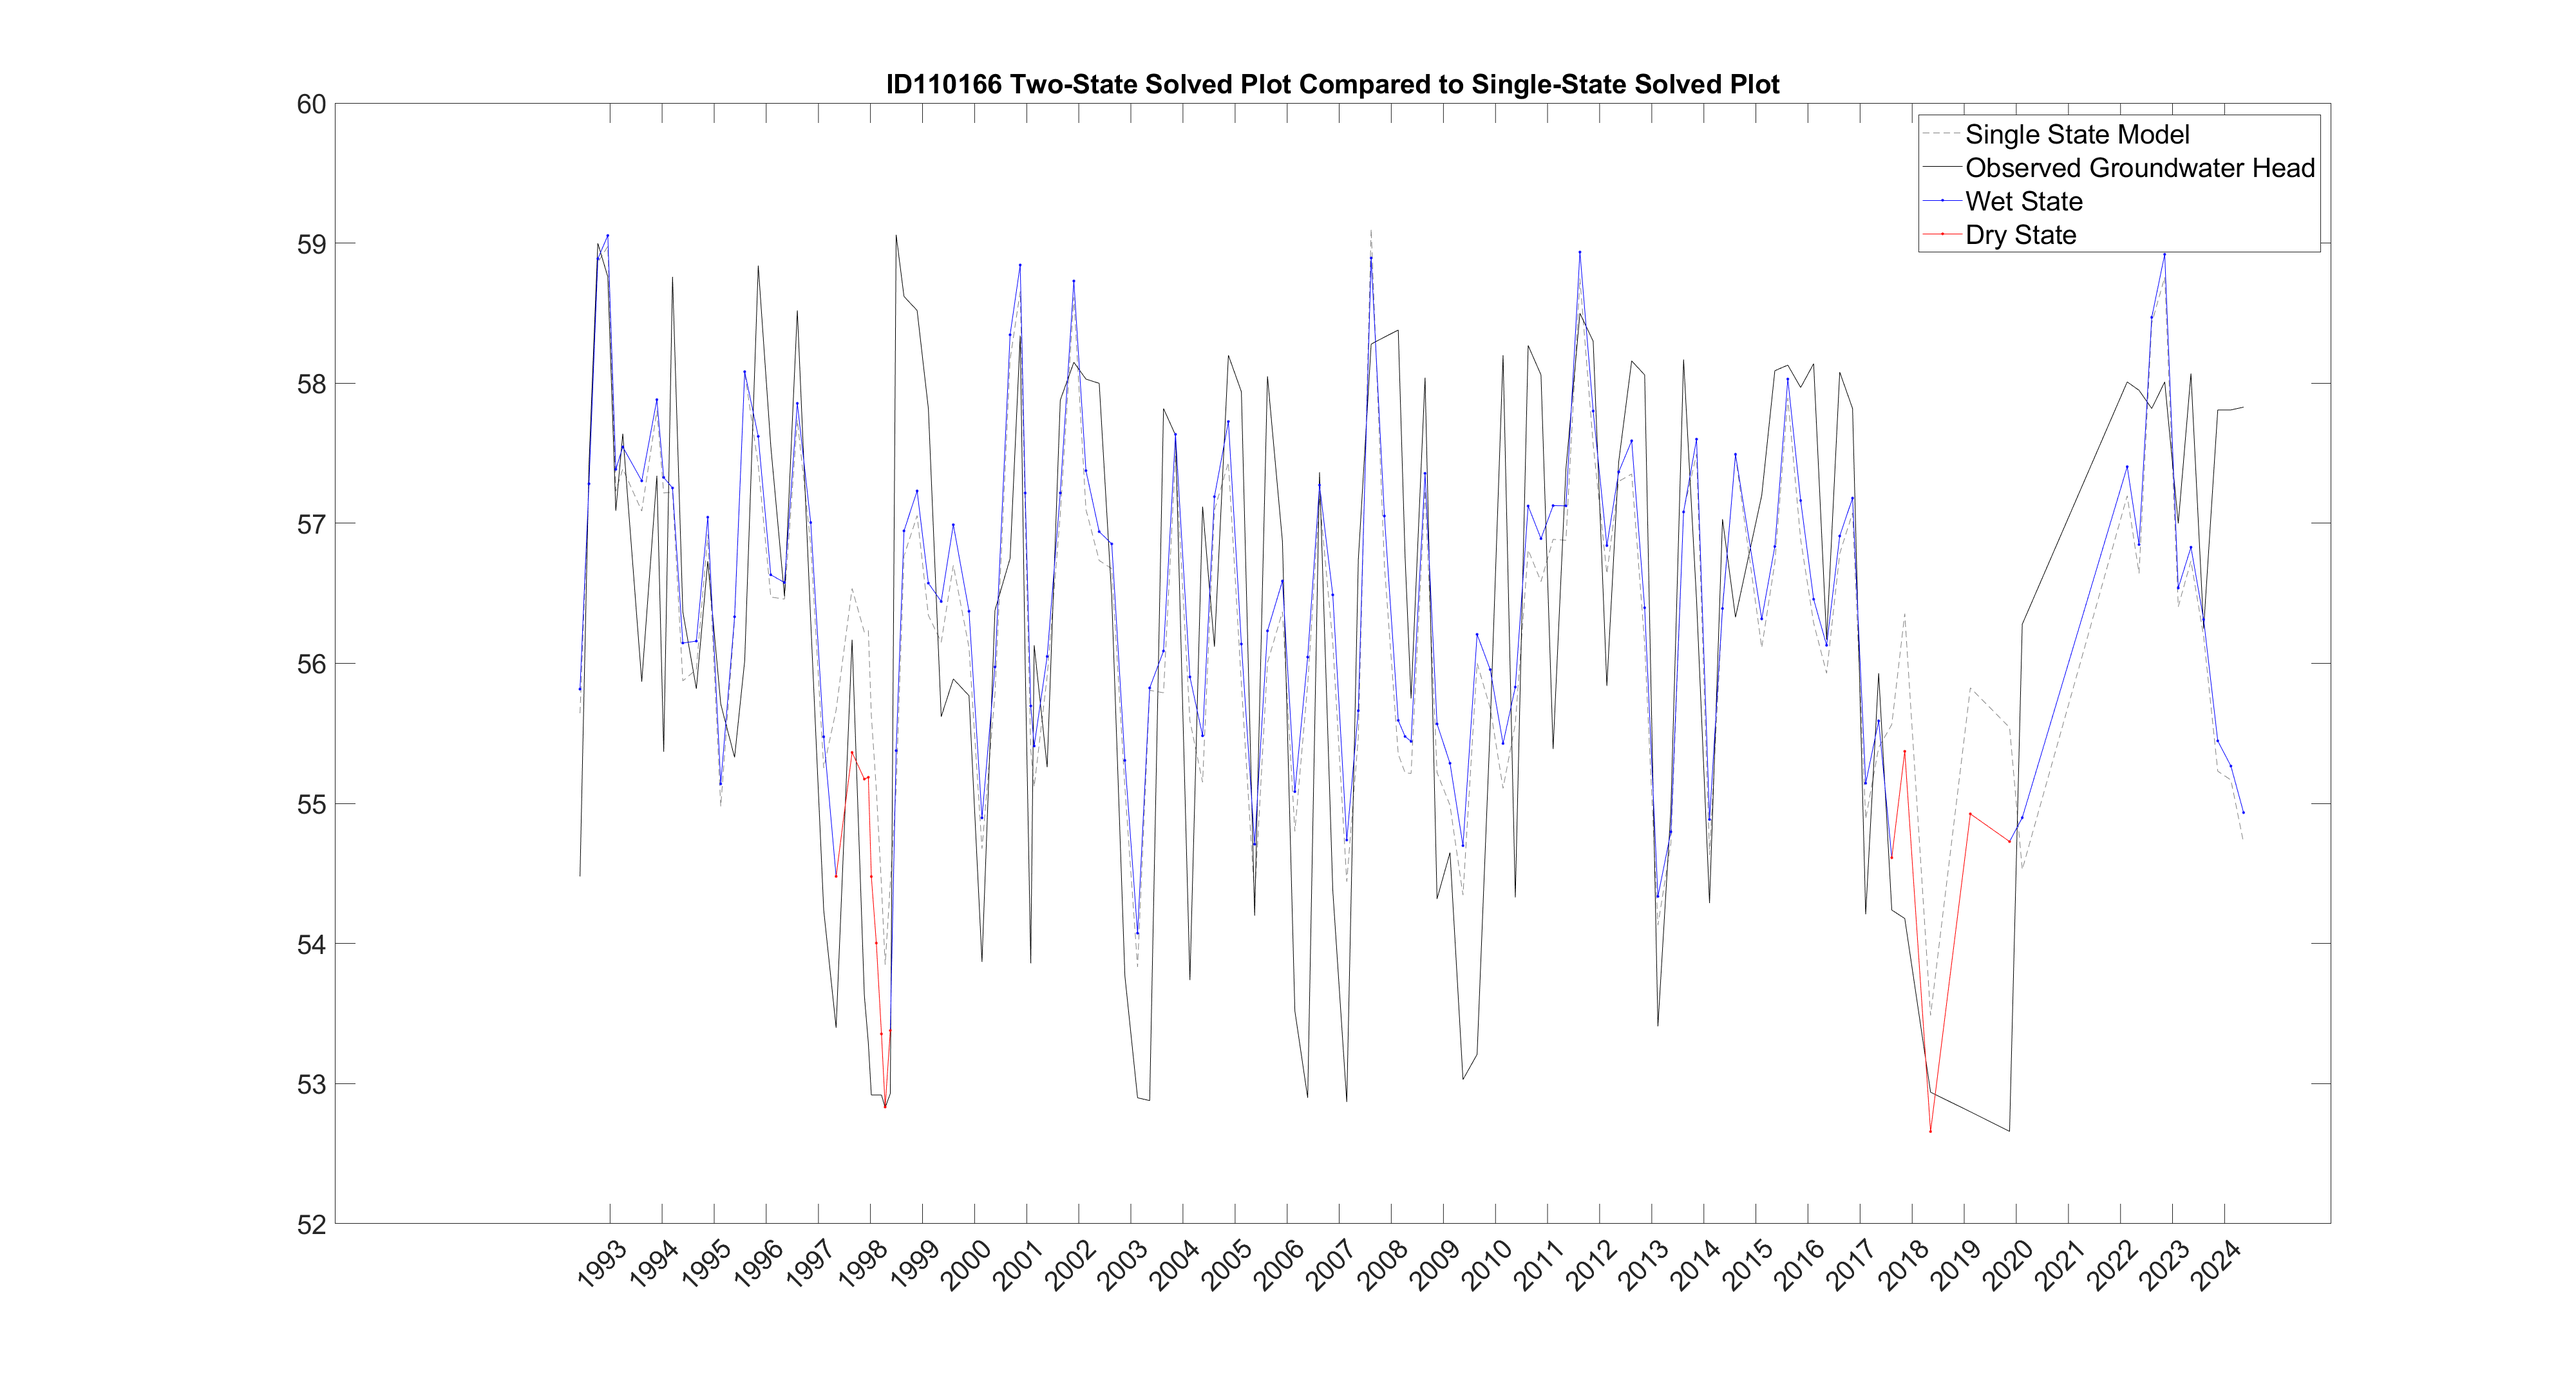
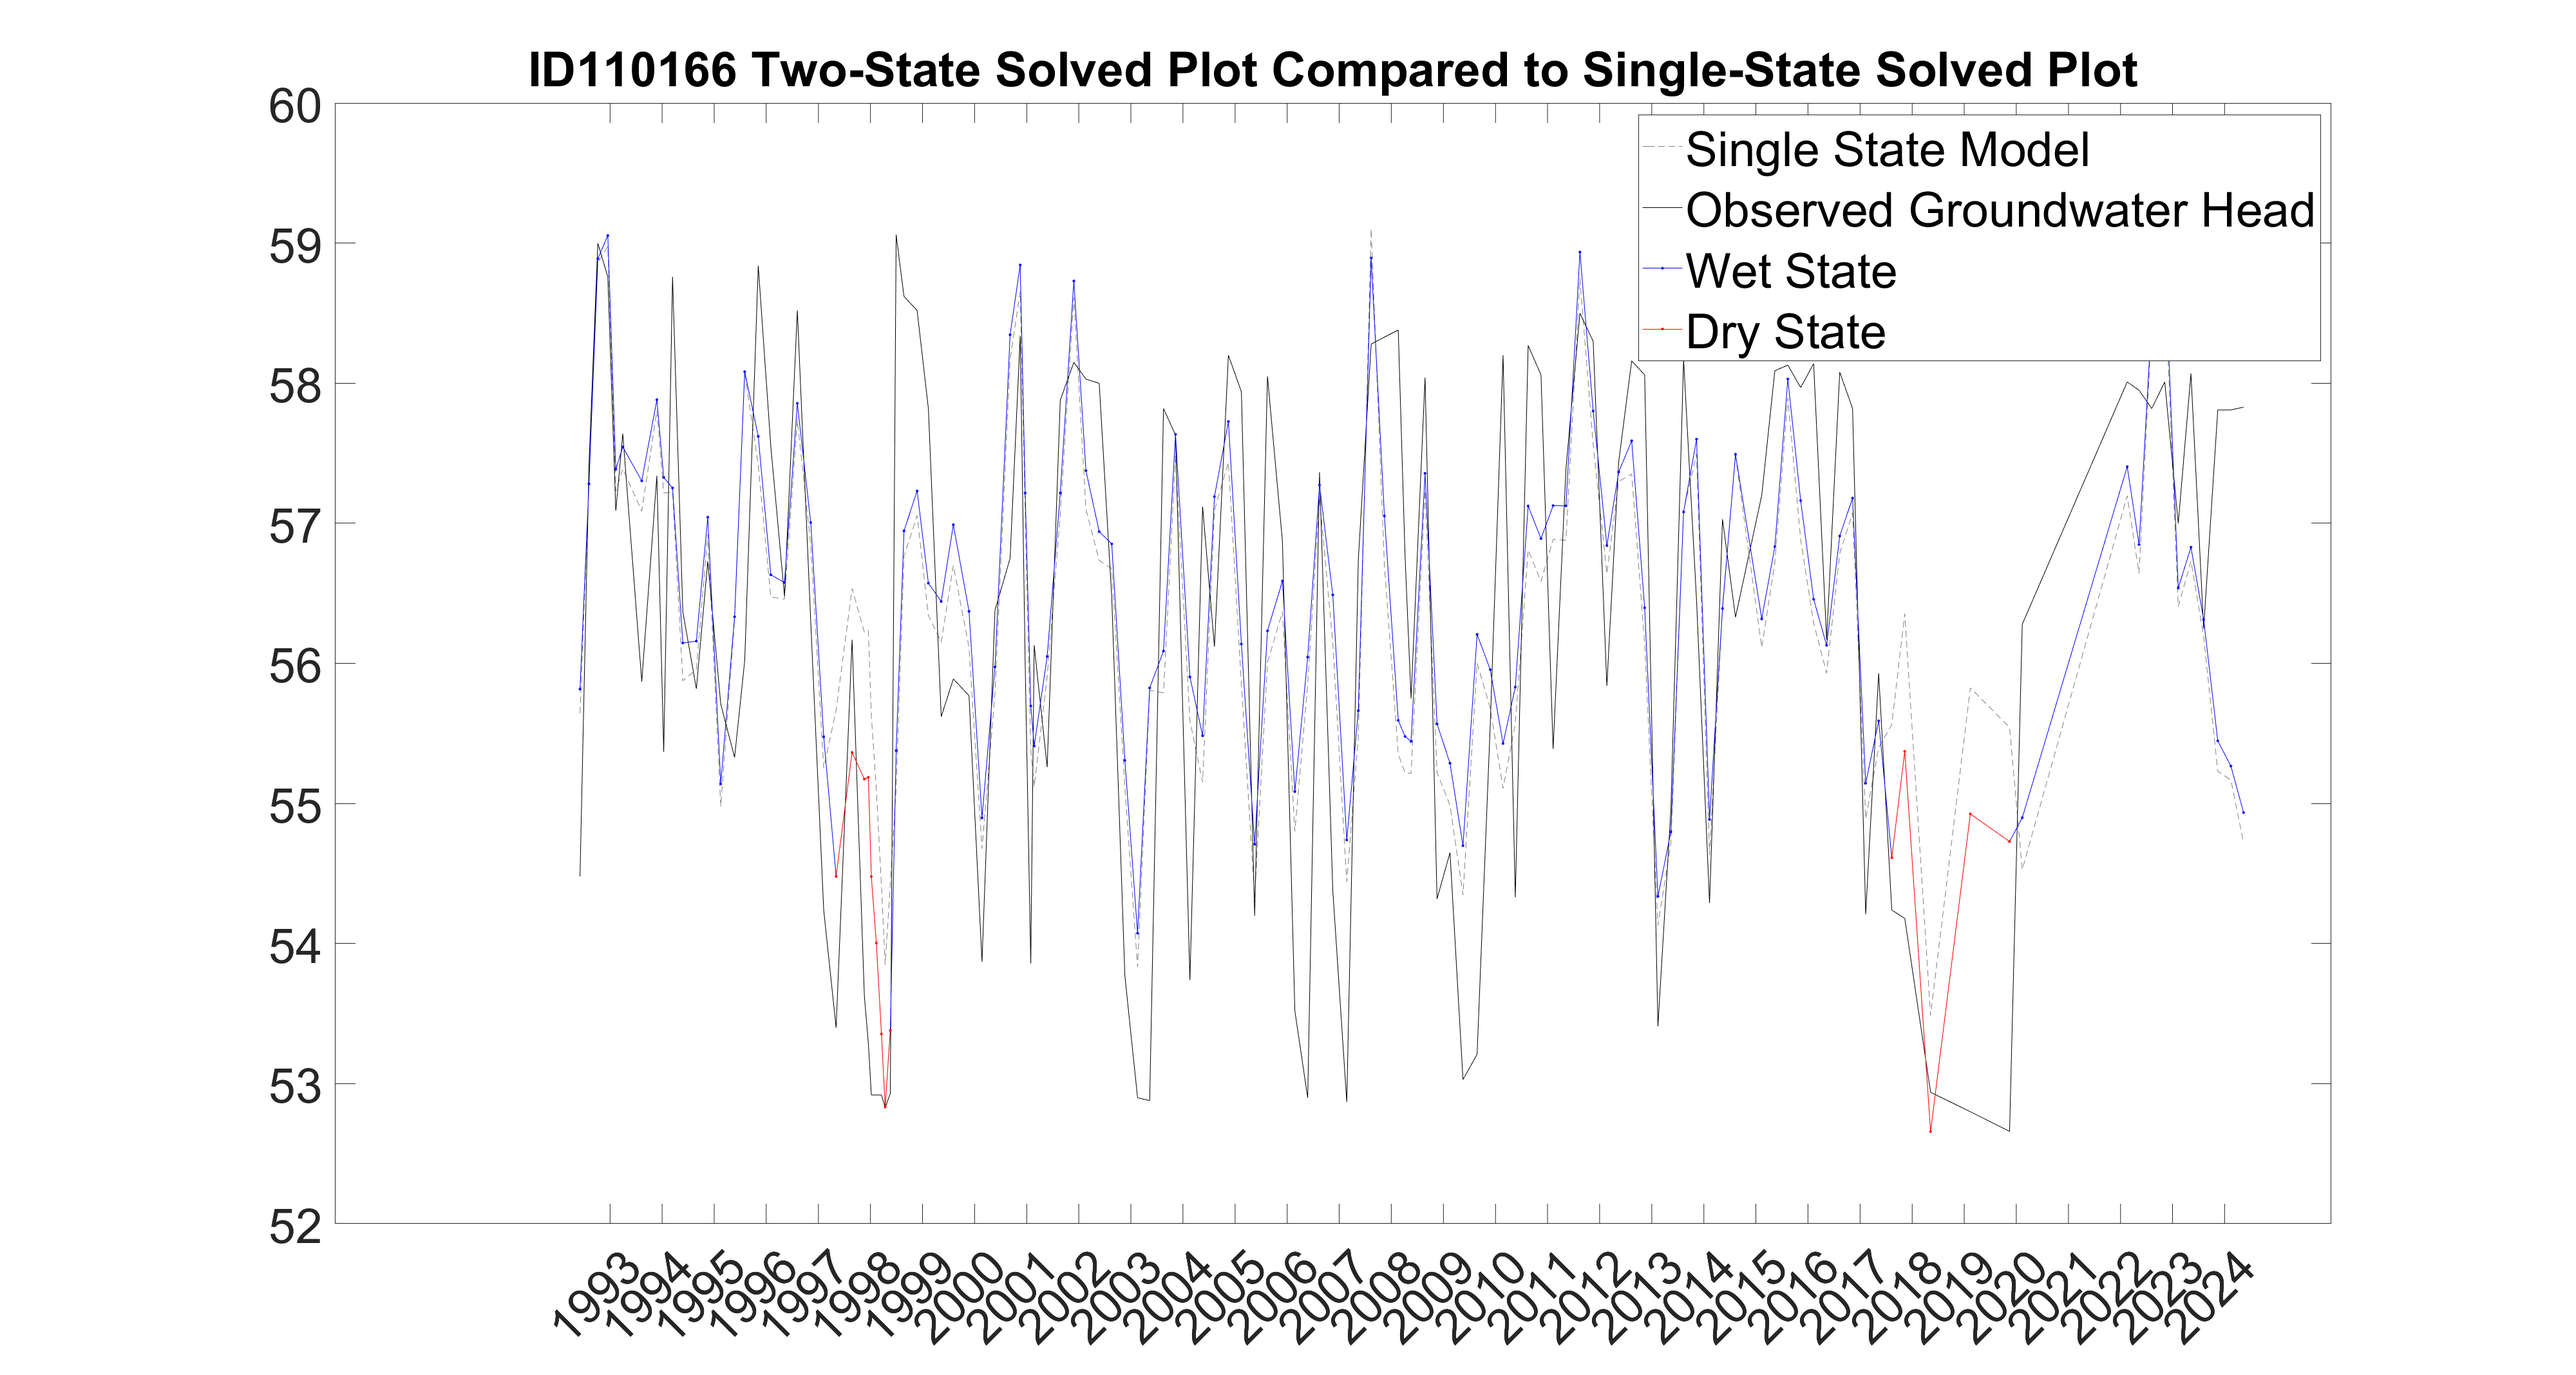
plottingstuff for pres

diff --git a/additionalPlots.m b/additionalPlots.m
@@ -2,15 +2,17 @@ close all; clear; clc;
 addpath(genpath("downloads"));
 addpath("downloads/models/");
 set(groot,'defaultfigureposition',[0,0,2560,1440]);
-%list = {'46854','47996','62427', '70921', '95076', '98865', '104930', '110738', '111525', '111530', '141235'};
 list = {'46854','47996','54925','56252','62427','63740','64139','66622', ...
     '70921','75563','81957','82095','95076','98865','103344','104930','105287', ...
     '108944','110104','110166','110197','110738','111525','111530','111691','112236', ...
     '119429','141235'}';
-fourPlotsOneAxes = true;
+fourPlotsOneAxes = false;
+twoStatePlot = false;
+oneStatePlot = false;
+vals = 2; %1:length(list);
 
 if fourPlotsOneAxes == true
-    for k = 1:length(list)
+    for k = vals %1:length(list)
         filename = list{k};
 
         % Load Single State model
@@ -41,9 +43,9 @@ if fourPlotsOneAxes == true
         end
 
         figure(k);
-        plot(time_steps_single,head_1,'color', [.5 .5 .5],'LineStyle','--');
+        plot(time_steps_single,head_1,'color', [.5 .5 .5],'LineStyle','--','LineWidth',2);
         hold on;
-        plot(time_obs,head_obs,'k');
+        plot(time_obs,head_obs,'k','LineWidth',2);
 
         stateHead = model_6params.model.variables.StateHead;
         stateHead_1 = stateHead;
@@ -56,9 +58,9 @@ if fourPlotsOneAxes == true
         end
 
         t = time_obs;
-        plot(t, stateHead(:,2),'.-b','LineWidth',0.025);
+        plot(t, stateHead(:,2),'.-b','LineWidth',2);
         % plot(t,stateHead_1(:,2),"Marker",".","Color","b");
-        plot(t,stateHead_2(:,2),"Marker",".","Color",'r');
+        plot(t,stateHead_2(:,2),"Marker",".","Color",'r','LineWidth',2);
         tspan = min(t):1:max(t);
         filt = day(tspan)==1 & month(tspan)==1;
         tspan = tspan(filt);
@@ -67,7 +69,8 @@ if fourPlotsOneAxes == true
         xticklabels(gca,yspan);
         title(['ID' filename ' Two-State Solved Plot Compared to Single-State Solved Plot']);
         legend('Single State Model','Observed Groundwater Head','Wet State','Dry State');
-        fontsize(20,"points");
+        ylabel('Groundwater Head (m)');
+        fontsize(36,"points");
         hold off
         saveas(gca,['downloads/plots_final/' filename '_solvedPlot.png']);
         close all;
@@ -76,8 +79,8 @@ if fourPlotsOneAxes == true
     end
 end
 
-if fourPlotsOneAxes == false
-    for k = 1
+if fourPlotsOneAxes == false && twoStatePlot == false && oneStatePlot == false
+    for k = vals
         filename = list{k};
 
         % Load Two State model
@@ -88,20 +91,20 @@ if fourPlotsOneAxes == false
         head_model2 = model_6params.model.variables.h_stars(:,3); %hstars(:,3)
 
         figure(k);
-        plot(time_steps,head_obs,'k');
+        plot(time_steps,head_obs,'k','LineWidth',2);
         hold on;
 
         dryIndex = model_6params.model.variables.StateHead;
-        plot(time_steps, dryIndex(:,2),'.-b','LineWidth',0.025);
+        plot(time_steps, dryIndex(:,2),'.-b','LineWidth',2);
 
         for j = 1:size(dryIndex, 1)
             if dryIndex(j, 3) == 1
                 dryIndex(j, 2) = NaN;
             end
         end
-        plot(time_steps(~isnan(dryIndex(:,2))), head_model1(~isnan(dryIndex(:,2))),'.-','Color',[0.3010 0.7450 0.9330],'LineWidth',0.025);
+        plot(time_steps(~isnan(dryIndex(:,2))), head_model1(~isnan(dryIndex(:,2))),'.-','Color',[0.3010 0.7450 0.9330],'LineWidth',2);
 
-        plot(time_steps,dryIndex(:,2),"Marker",".","Color","r");
+        plot(time_steps,dryIndex(:,2),"Marker",".","Color","r",'LineWidth',2);
         tspan = min(time_steps):1:max(time_steps);
         filt = day(tspan)==1 & month(tspan)==1;
         tspan = tspan(filt);
@@ -111,6 +114,102 @@ if fourPlotsOneAxes == false
         title(['ID' filename ' Two-State Solved Plot Comparing States After Switch']);
         legend('Observed Groundwater Head','Wet State','Wet State after Switch','Dry State');
         fontsize(20,"points");
+        ylabel('Groundwater Head (m)');
+        hold off
+
+        % ADD Additional h_stars from model_6params.model.variables.h_stars
+    end
+end
+
+if twoStatePlot == true
+    for k = vals %1:length(list)
+        filename = list{k};
+
+        % Load Single State model
+        load(filename + "_model_6params_1.mat");
+        time_obs = model_6params.model.inputData.head(:,1);
+        head_obs = model_6params.model.inputData.head(:,2);
+        time_steps_single = model_6params.simulationResults{1,1}.head(:,1);
+
+        clear model_6params;
+
+        % Load Two State model
+        load(filename + "_model_6params_2.mat");
+        time_steps_two = model_6params.simulationResults{1,1}.head(:,1);
+        head_2 = model_6params.simulationResults{1,1}.head(:,2);
+
+        datum1 = model_6params.model.parameters.datum1;
+        datum2 = model_6params.model.parameters.datum2;
+
+        if datum1.d > datum2.d
+            wetState = 1;
+            dryState = 2;
+        elseif datum2.d > datum1.d
+            wetState = 2;
+            dryState = 1;
+        else
+            error("Datum 1 or 2 either aren't defined or are equal");
+        end
+
+        figure(k);
+        plot(time_obs,head_obs,'k','LineWidth',2);
+        hold on;
+
+        stateHead = model_6params.model.variables.StateHead;
+        stateHead_1 = stateHead;
+        stateHead_2 = stateHead;
+
+        for j = 1:size(stateHead_1, 1)
+            if stateHead_2(j, 3) == wetState
+                stateHead_2(j, 2) = NaN;
+            end
+        end
+
+        t = time_obs;
+        plot(t, stateHead(:,2),'.-b','LineWidth',2);
+        plot(t,stateHead_2(:,2),"Marker",".","Color",'r','LineWidth',2);
+        tspan = min(t):1:max(t);
+        filt = day(tspan)==1 & month(tspan)==1;
+        tspan = tspan(filt);
+        yspan = year(tspan);
+        xticks(gca,tspan);
+        xticklabels(gca,yspan);
+        title(['ID' filename ' Two-State Solved Plot']);
+        legend('Observed Groundwater Head','Wet State','Dry State');
+        fontsize(36,"points");
+        hold off
+
+        % ADD Additional h_stars from model_6params.model.variables.h_stars
+    end
+end
+
+if twoStatePlot == false && oneStatePlot == true
+    for k = vals %1:length(list)
+        filename = list{k};
+
+        % Load Single State model
+        load(filename + "_model_6params_1.mat");
+        time_obs = model_6params.model.inputData.head(:,1);
+        head_obs = model_6params.model.inputData.head(:,2);
+        time_steps_single = model_6params.simulationResults{1,1}.head(:,1);
+        head_1 = model_6params.simulationResults{1,1}.head(:,2);
+
+        clear model_6params;
+
+        figure(k);
+        plot(time_steps_single,head_1,'b','LineWidth',2);
+        hold on;
+        plot(time_obs,head_obs,'k','LineWidth',2);
+        t = time_obs;
+        tspan = min(t):1:max(t);
+        filt = day(tspan)==1 & month(tspan)==1;
+        tspan = tspan(filt);
+        yspan = year(tspan);
+        xticks(gca,tspan);
+        xticklabels(gca,yspan);
+        title(['ID' filename ' One-State Solved Plot']);
+        legend('Single State Model','Observed Groundwater Head');
+        fontsize(36,"points");
         hold off
 
         % ADD Additional h_stars from model_6params.model.variables.h_stars

diff --git a/AIC.m b/AIC.m
@@ -9,7 +9,7 @@ list = {'46854','47996','54925','56252','62427','63740','64139','66622', ...
     '108944','110104','110166','110197','110738','111525','111530','111691','112236', ...
     '119429','141235'}';
 
-AIC_values = NaN(length(list),3);
+AIC_values = NaN(length(list),4);
 
 for i = 1:length(list)
 
@@ -27,4 +27,11 @@ for i = 1:length(list)
     AIC_values(i,1) = filename;
     AIC_values(i,2) = aic;
     AIC_values(i,3) = aic_2;
+    if aic > aic_2
+        AIC_values(i,4) = 2;
+    elseif aic < aic_2
+        AIC_values(i,4) = 1;
+    elseif aic == aic_2
+        AIC_values(i,4) = 0;
+    end
 end
